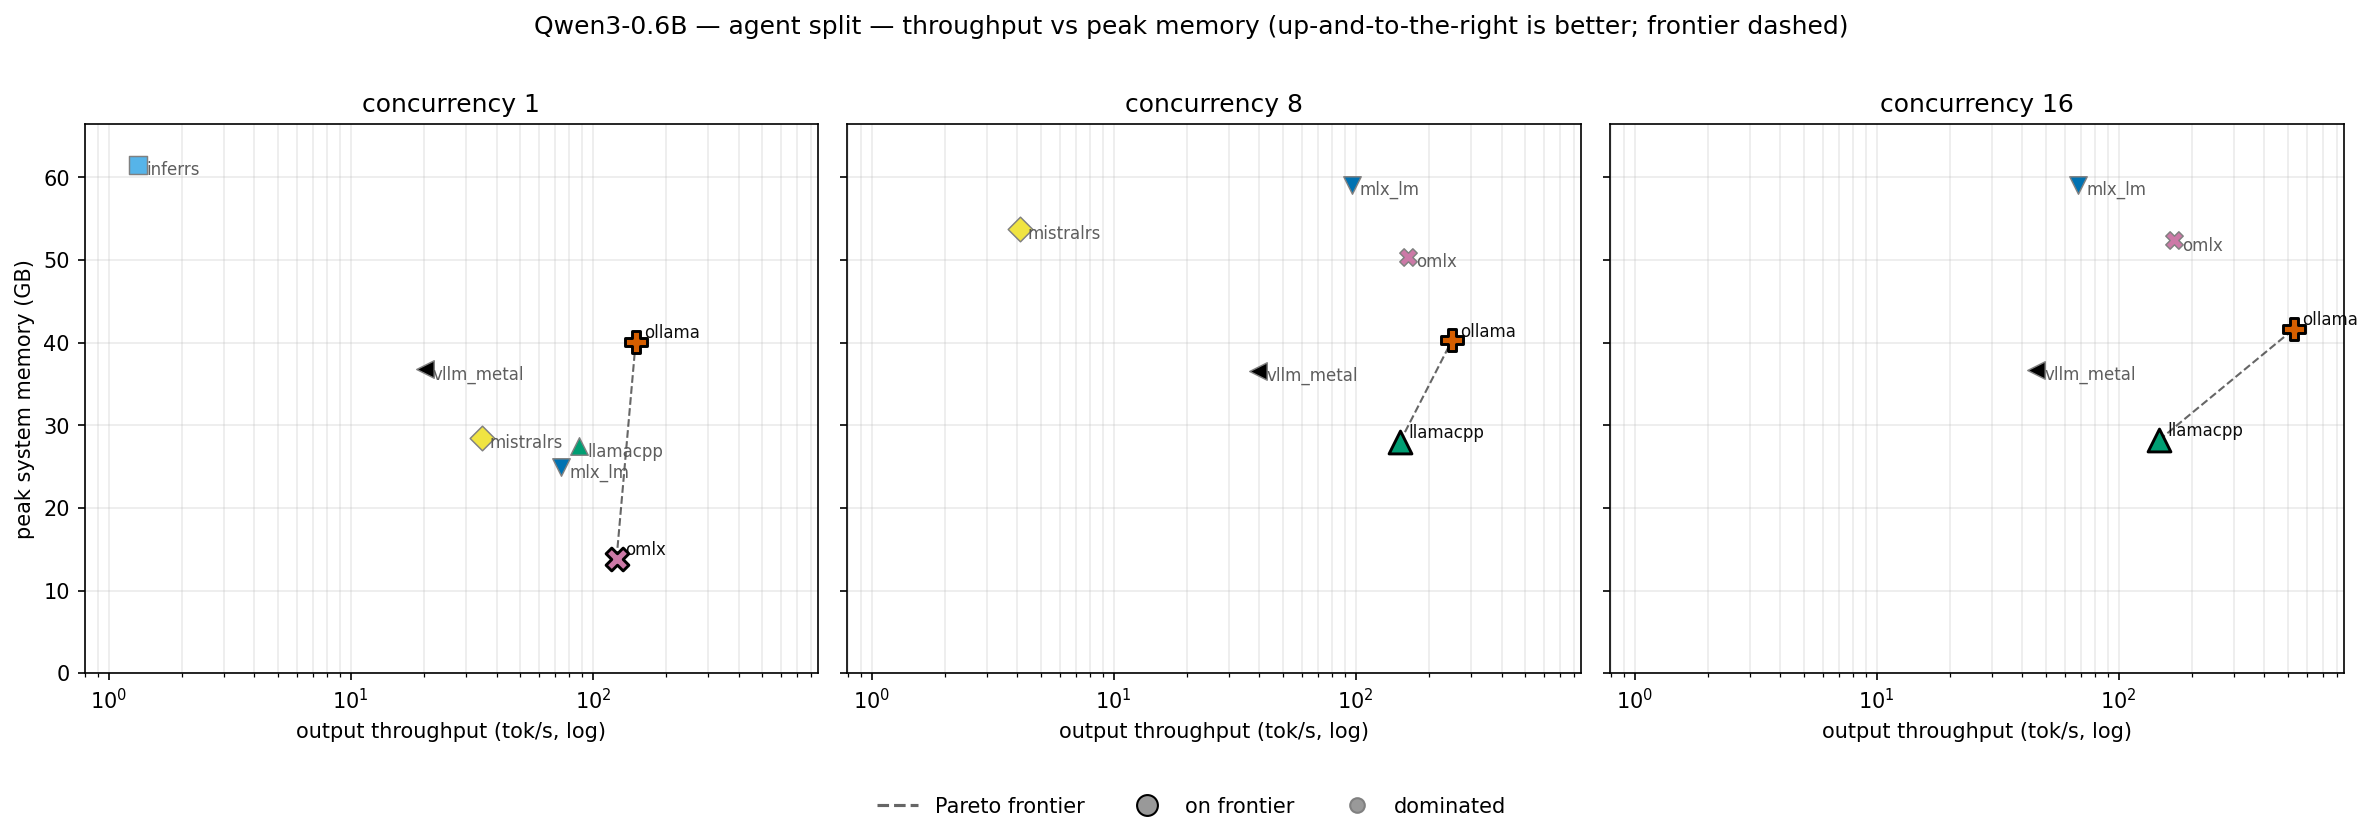
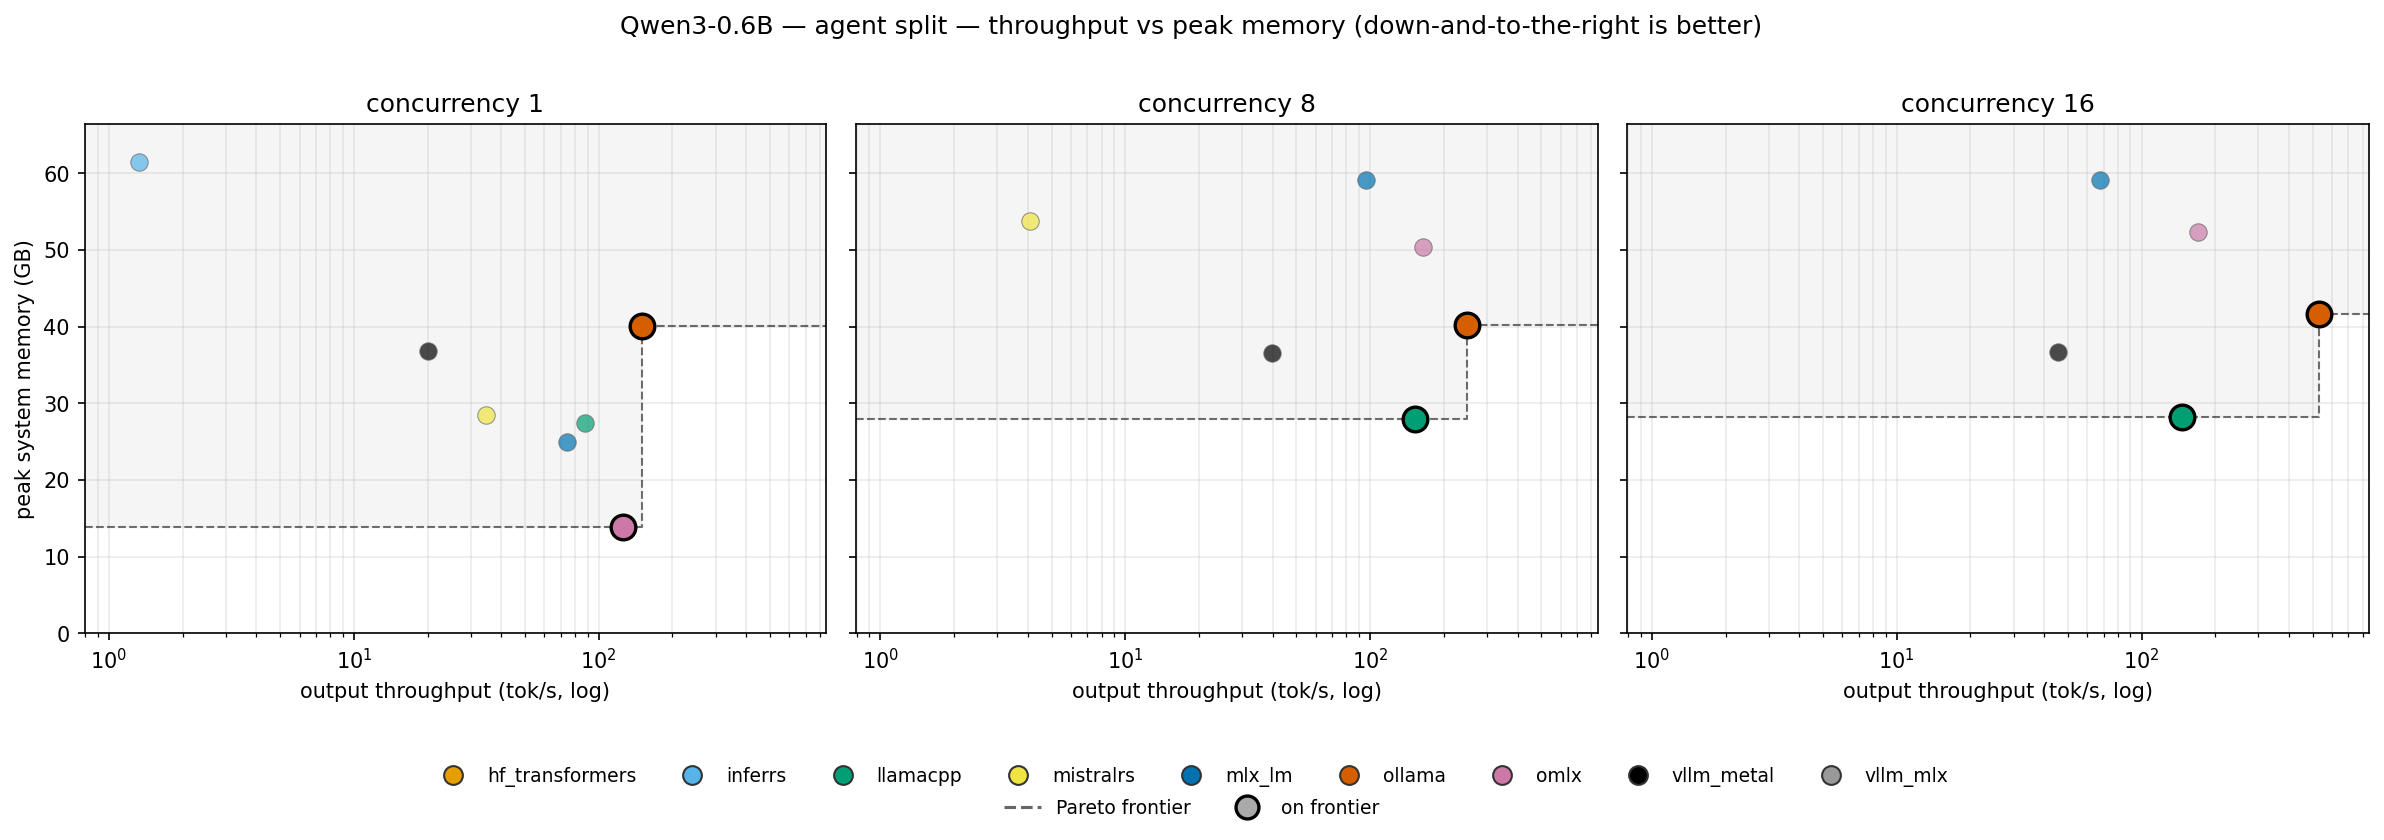
draw: declutter Pareto figure — legend, staircase, shaded dominated region
Feedback on the earlier version: hard to read. Three changes:

1. Pixel-offset labels replaced by a single figure-level legend keyed
   on framework color. Removes on-plot label overlap (llamacpp/omlx
   collided when both sat on the frontier at nearly identical mem).
2. Staircase Pareto boundary (horizontal step at lower y, then
   vertical to next point) replaces the straight-line diagonal — this
   is the technically-correct boundary for max-x / min-y and makes
   "no framework reaches below and to the right of the line" read
   unambiguously.
3. Light-gray shading above the staircase marks the dominated region
   so the unreachable zone is visible without reading the line.

Frontier points now get large filled circles with a thick black edge;
dominated points are smaller with a light edge + slight transparency.
Consistent CVD-safe palette across panels; frameworks stay the same
color in every concurrency subplot.

🤖 Generated with [Claude Code](https://claude.com/claude-code)

diff --git a/draw/plot_pareto.py b/draw/plot_pareto.py
@@ -144,35 +144,43 @@ def main() -> None:
         front_idx = pareto_front(list(zip(xs, ys)))
         front_set = set(front_idx)
 
-        # Pareto frontier — dashed line through non-dominated points,
-        # extended to the plot edges to visually suggest the unreachable region.
-        if len(front_idx) >= 1:
+        # Staircase Pareto boundary: with max-x/min-y, between two frontier
+        # points sorted by x the boundary runs horizontal (at lower y) to the
+        # next x, then vertical up to the next y. Shade the dominated region
+        # (above the staircase) lightly so "no framework can reach here" reads
+        # at a glance.
+        if front_idx:
             fx = [xs[i] for i in front_idx]
             fy = [ys[i] for i in front_idx]
-            # Staircase step: best-throughput-so-far at each memory level.
-            # Draw only between frontier points themselves; avoid extrapolating.
-            ax.plot(fx, fy, "k--", linewidth=1.0, alpha=0.6, zorder=2,
-                    label="Pareto frontier")
+            # Build staircase vertices for both the line and the shaded polygon.
+            step_x = [fx[0]]
+            step_y = [fy[0]]
+            for i in range(1, len(fx)):
+                step_x.extend([fx[i], fx[i]])
+                step_y.extend([fy[i - 1], fy[i]])
+            # Extend the left end to the axis so the line clearly reads as a
+            # boundary rather than floating mid-plot.
+            line_x = [x_lo, *step_x, x_hi]
+            line_y = [step_y[0], *step_y, step_y[-1]]
+            ax.plot(line_x, line_y, "k--", linewidth=1.0, alpha=0.55, zorder=2)
+            # Shade the dominated region — above the staircase, bounded by
+            # the top of the panel.
+            ax.fill_between(
+                line_x, line_y, y_hi,
+                color="gray", alpha=0.08, zorder=1,
+            )
 
         for i, (x, y, fw) in enumerate(zip(xs, ys, fws)):
             on_front = i in front_set
             ax.scatter(
                 x, y,
-                s=120 if on_front else 70,
-                marker=markers[fw],
+                s=140 if on_front else 70,
+                marker="o",
                 color=colors[fw],
-                edgecolors="black" if on_front else "gray",
-                linewidths=1.4 if on_front else 0.7,
+                edgecolors="black" if on_front else "#666666",
+                linewidths=1.6 if on_front else 0.5,
+                alpha=1.0 if on_front else 0.7,
                 zorder=4 if on_front else 3,
-            )
-            # Label with a small offset; nudge dominated points down-right
-            # and frontier points up-right so they rarely collide.
-            dx = 1.08
-            dy = 0.5 if on_front else -1.2
-            ax.annotate(
-                fw, (x, y), xytext=(x * dx, y + dy),
-                fontsize=8, alpha=0.95,
-                color="black" if on_front else "#555555",
             )
 
         ax.set_xscale("log")
@@ -184,27 +192,37 @@ def main() -> None:
 
     axes[0].set_ylabel("peak system memory (GB)")
 
-    # Single legend (frontier line + "frontier / dominated" marker cue).
-    legend_elements = [
+    # Framework legend (one colored dot per framework) + a small inset that
+    # explains the frontier / dominated styling.
+    fw_handles = [
+        plt.Line2D([0], [0], marker="o", color="white",
+                   markerfacecolor=colors[fw], markeredgecolor="#333",
+                   markersize=9, linestyle="None", label=fw)
+        for fw in all_fw
+    ]
+    style_handles = [
         plt.Line2D([0], [0], linestyle="--", color="black", alpha=0.6,
                    label="Pareto frontier"),
         plt.Line2D([0], [0], marker="o", color="white",
-                   markerfacecolor="#999", markeredgecolor="black",
-                   markersize=10, linestyle="None", label="on frontier"),
-        plt.Line2D([0], [0], marker="o", color="white",
-                   markerfacecolor="#999", markeredgecolor="gray",
-                   markersize=7, linestyle="None", label="dominated"),
+                   markerfacecolor="#aaa", markeredgecolor="black",
+                   markersize=11, markeredgewidth=1.6, linestyle="None",
+                   label="on frontier"),
     ]
     fig.legend(
-        handles=legend_elements,
-        loc="upper center", bbox_to_anchor=(0.5, 0.02),
-        ncol=3, frameon=False,
+        handles=fw_handles,
+        loc="upper center", bbox_to_anchor=(0.5, 0.055),
+        ncol=len(all_fw), frameon=False, fontsize=9,
+    )
+    fig.legend(
+        handles=style_handles,
+        loc="upper center", bbox_to_anchor=(0.5, 0.015),
+        ncol=2, frameon=False, fontsize=9,
     )
     fig.suptitle(
         f"{args.model} — {args.split} split — throughput vs peak memory "
-        "(up-and-to-the-right is better; frontier dashed)"
+        "(down-and-to-the-right is better)"
     )
-    fig.tight_layout(rect=(0, 0.04, 1, 0.97))
+    fig.tight_layout(rect=(0, 0.09, 1, 0.97))
 
     out = args.out or REPO_ROOT / "draw" / f"pareto_{args.model}_{args.split}.png"
     out.parent.mkdir(parents=True, exist_ok=True)
